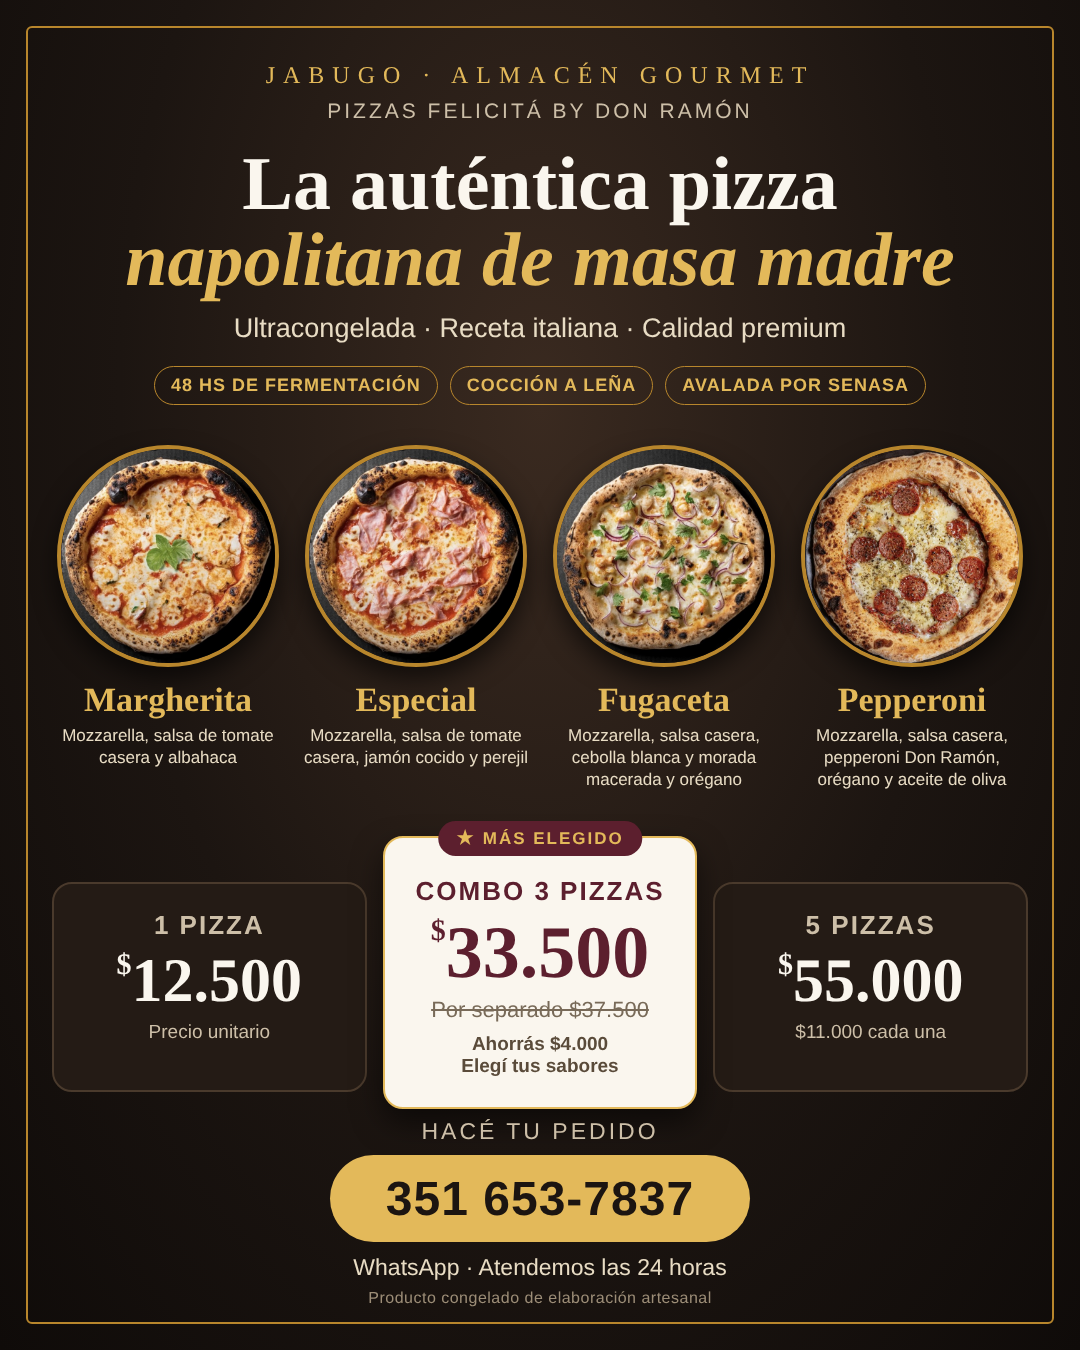
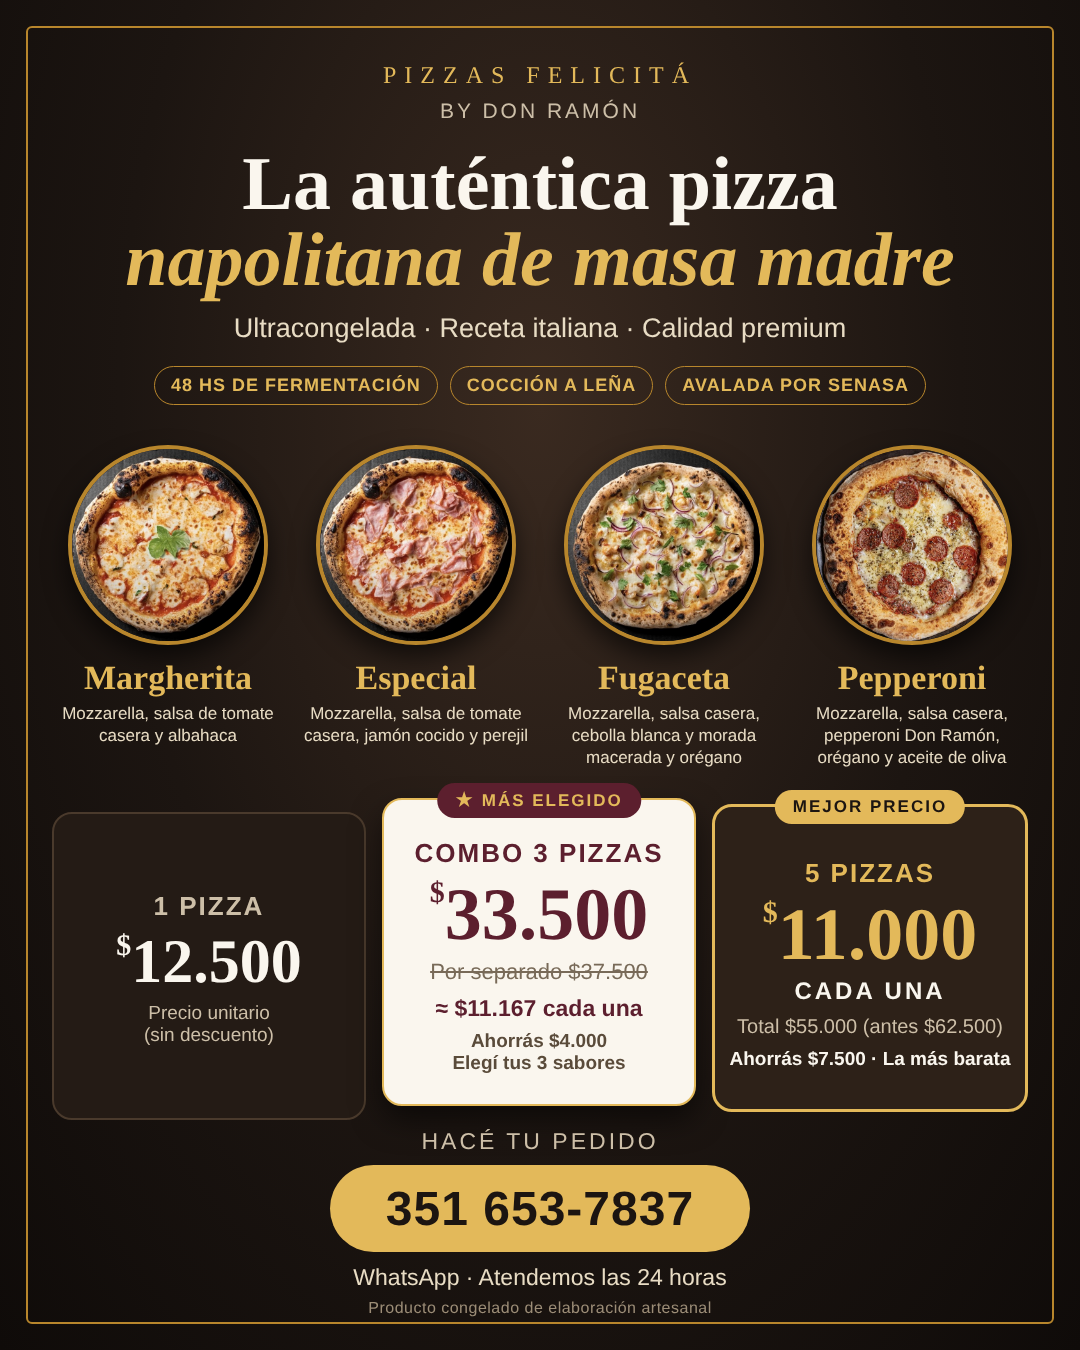
Flyer: quita marca Jabugo, destaca 5x$11.000 c/u y precio por pizza del combo
Claude-Session: https://claude.ai/code/session_0197My5JwpLuuBot4mcBVY7K

diff --git a/flyer/flyer-pizzas.html b/flyer/flyer-pizzas.html
@@ -1,5 +1,5 @@
 <!doctype html>
-<html lang="es"><head><meta charset="utf-8"><title>Flyer Pizzas Felicitá — Jabugo</title>
+<html lang="es"><head><meta charset="utf-8"><title>Flyer Pizzas Felicitá</title>
 <style>
 :root{--gold:#e3b95a;--gold-d:#b8862c;--wine:#5c1f2e;--ink:#15110e;--cream:#faf6ee;--mute:#cdbfa8}
 *{box-sizing:border-box;margin:0;padding:0}
@@ -16,12 +16,12 @@ h1 em{color:var(--gold)}
 .seals span{border:1.5px solid var(--gold-d);color:var(--gold);font-size:18px;font-weight:700;letter-spacing:1px;padding:8px 16px;border-radius:30px;text-transform:uppercase}
 .pizzas{position:absolute;top:445px;left:0;width:100%;display:flex;justify-content:center;gap:16px;padding:0 52px}
 .card{flex:1;text-align:center}
-.ph{width:222px;height:222px;border-radius:50%;margin:0 auto;border:4px solid var(--gold-d);overflow:hidden;box-shadow:0 12px 24px rgba(0,0,0,.6)}
+.ph{width:200px;height:200px;border-radius:50%;margin:0 auto;border:4px solid var(--gold-d);overflow:hidden;box-shadow:0 12px 24px rgba(0,0,0,.6)}
 .ph img{width:100%;height:100%;object-fit:cover;display:block}
 .card h3{font-family:Georgia,serif;font-size:34px;margin-top:14px;color:var(--gold)}
 .card p{font-size:17px;line-height:1.3;margin-top:6px;color:#e8dcc4}
-.plans{position:absolute;top:850px;left:52px;right:52px;display:flex;gap:16px;align-items:center}
-.plan{flex:1;min-height:210px;background:#241b15;border:2px solid #4a3a2c;border-radius:20px;text-align:center;padding:26px 10px 22px}
+.plans{position:absolute;top:812px;left:52px;right:52px;display:flex;gap:16px;align-items:stretch}
+.plan{flex:1;min-height:268px;display:flex;flex-direction:column;justify-content:center;background:#241b15;border:2px solid #4a3a2c;border-radius:20px;text-align:center;padding:26px 10px 22px}
 .plan .q{font-size:26px;font-weight:700;letter-spacing:2px;color:var(--mute);text-transform:uppercase}
 .plan .p{font-family:Georgia,serif;font-size:62px;font-weight:700;color:var(--cream);margin-top:8px;line-height:1}
 .plan .p small{font-size:30px;vertical-align:top}
@@ -30,17 +30,25 @@ h1 em{color:var(--gold)}
 .plan.hl .q{color:var(--wine)}.plan.hl .p{color:var(--wine);font-size:74px}.plan.hl .n{color:#5a4b3a;font-weight:700}
 .plan.hl .old{font-size:22px;color:#786a58;text-decoration:line-through;margin-top:8px}
 .ribbon{position:absolute;top:-17px;left:50%;transform:translateX(-50%);background:var(--wine);color:var(--gold);font-weight:800;font-size:17px;letter-spacing:2px;padding:7px 18px;border-radius:30px;white-space:nowrap}
-.cta{position:absolute;top:1118px;width:100%;text-align:center}
+.cta{position:absolute;top:1128px;width:100%;text-align:center}
 .cta .l{font-size:23px;letter-spacing:3px;color:var(--mute);text-transform:uppercase}
 .cta .btn{display:inline-block;margin-top:10px;background:var(--gold);color:#1c1511;font-weight:800;font-size:48px;padding:16px 56px;border-radius:60px;letter-spacing:1px}
 .cta .h{font-size:23px;margin-top:12px;color:#e8dcc4}
 .cta .f{font-size:16px;margin-top:8px;color:#9c8d77;letter-spacing:.5px}
+.plan .unit{font-weight:800;font-size:23px;color:var(--wine);margin-top:10px}
+.plan.hl .n{margin-top:8px}
+.plan.best{border-color:var(--gold);border-width:3px;background:#2d2118;padding-top:34px;position:relative;transform:translateY(-8px)}
+.plan.best .q{color:var(--gold)}.plan.best .p{color:var(--gold);font-size:74px}
+.plan .unit.g{color:var(--cream);font-size:24px;letter-spacing:3px;margin-top:6px}
+.plan .old2{font-size:20px;color:var(--mute);margin-top:10px}
+.plan.best .n{color:var(--cream);font-weight:700}
+.ribbon.g{background:var(--gold);color:#1c1511}
 </style></head><body>
 <div class="bg"></div><div class="frame"></div>
 
 <div class="top">
-  <div class="brand">Jabugo · Almacén Gourmet</div>
-  <div class="by">Pizzas Felicitá by Don Ramón</div>
+  <div class="brand">Pizzas Felicitá</div>
+  <div class="by">by Don Ramón</div>
   <h1>La auténtica pizza<br><em>napolitana de masa madre</em></h1>
   <div class="sub">Ultracongelada · Receta italiana · Calidad premium</div>
   <div class="seals"><span>48 hs de fermentación</span><span>Cocción a leña</span><span>Avalada por SENASA</span></div>
@@ -54,9 +62,9 @@ h1 em{color:var(--gold)}
 </div>
 
 <div class="plans">
-  <div class="plan"><div class="q">1 pizza</div><div class="p"><small>$</small>12.500</div><div class="n">Precio unitario</div></div>
-  <div class="plan hl"><div class="ribbon">★ MÁS ELEGIDO</div><div class="q">Combo 3 pizzas</div><div class="p"><small>$</small>33.500</div><div class="old">Por separado $37.500</div><div class="n">Ahorrás $4.000<br>Elegí tus sabores</div></div>
-  <div class="plan"><div class="q">5 pizzas</div><div class="p"><small>$</small>55.000</div><div class="n">$11.000 cada una</div></div>
+  <div class="plan"><div class="q">1 pizza</div><div class="p"><small>$</small>12.500</div><div class="n">Precio unitario<br>(sin descuento)</div></div>
+  <div class="plan hl"><div class="ribbon">★ MÁS ELEGIDO</div><div class="q">Combo 3 pizzas</div><div class="p"><small>$</small>33.500</div><div class="old">Por separado $37.500</div><div class="unit">≈ $11.167 cada una</div><div class="n">Ahorrás $4.000<br>Elegí tus 3 sabores</div></div>
+  <div class="plan best"><div class="ribbon g">MEJOR PRECIO</div><div class="q">5 pizzas</div><div class="p"><small>$</small>11.000</div><div class="unit g">CADA UNA</div><div class="old2">Total $55.000 (antes $62.500)</div><div class="n">Ahorrás $7.500 · La más barata</div></div>
 </div>
 
 <div class="cta">
